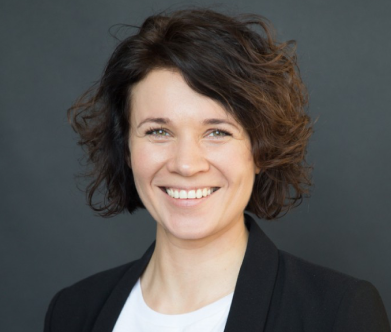
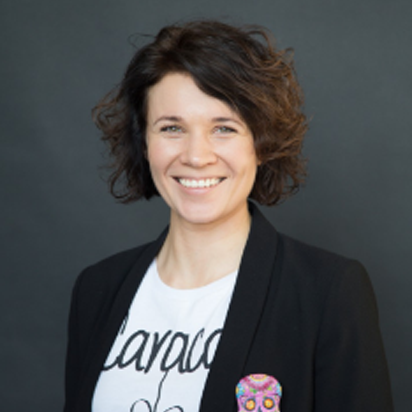
moderator design update

diff --git a/wp-content/themes/eastern-partnership/assets/css/new_custom.css b/wp-content/themes/eastern-partnership/assets/css/new_custom.css
@@ -392,16 +392,16 @@ position: relative;
 }
 
 .m-col .card-item .img-wrap .mask {
-width: 190px;
-height: 190px;
-margin: 0 auto;
-overflow: hidden;
-border-radius: 50%;
+    width: 190px;
+    height: 190px;
+    margin: 0 auto;
+    overflow: hidden;
+    border-radius: 50%;
 }
 
 .m-col .card-item .img-wrap .mask img {
-width: 224px;
-margin-left: -25px;
+    max-width: 100%;
+    height: auto;
 }
 
 .m-col .card-item .img-wrap img.flag {

diff --git a/wp-content/themes/eastern-partnership/index.php b/wp-content/themes/eastern-partnership/index.php
@@ -399,7 +399,7 @@
                     <div class="card-item">
                         <div class="img-wrap">
                             <div class="mask">
-                                <img src="<?php echo esc_url(get_template_directory_uri()) ?>/assets/images/male.png"
+                                <img src="<?php echo esc_url(get_template_directory_uri()) ?>/assets/images/female.png"
                                      alt="">
                             </div>
                             <img class="flag"
